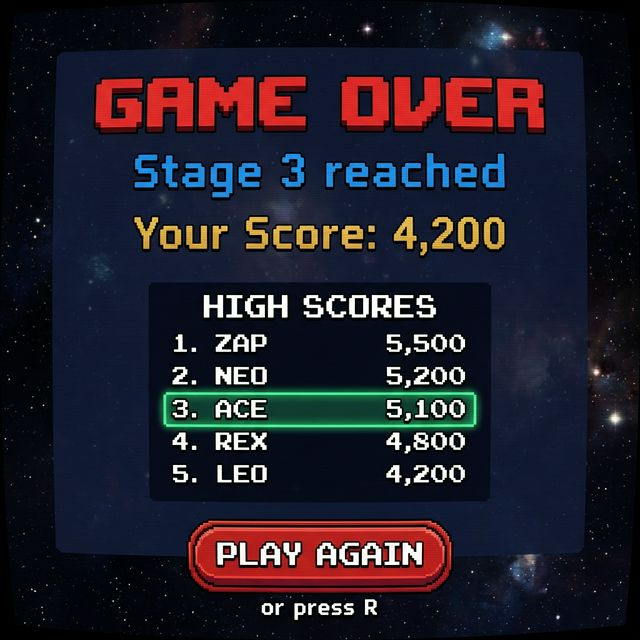
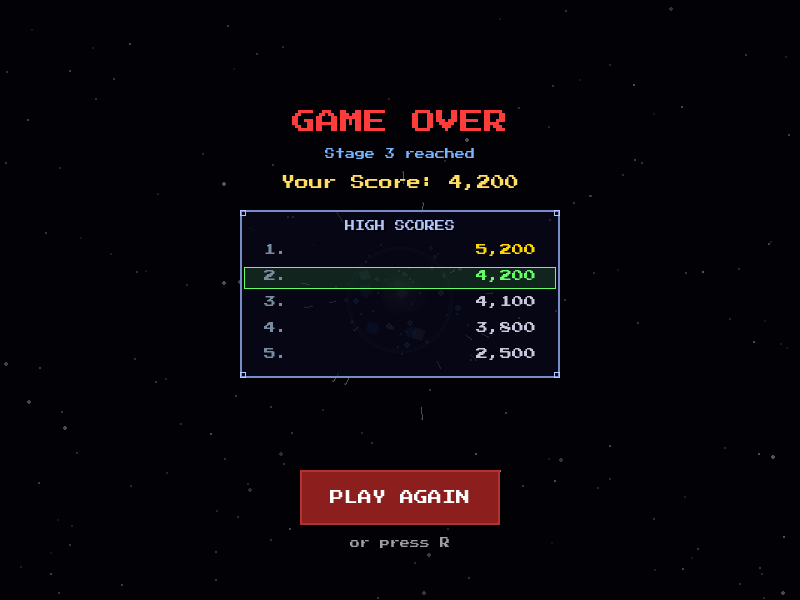
docs: replace AI-generated screenshots with actual game renders
Added capture_screenshots.py to programmatically render each screen
state and save as PNG. Screenshots now match the actual game.

diff --git a/capture_screenshots.py b/capture_screenshots.py
@@ -1,0 +1,114 @@
+#!/usr/bin/env python3
+"""Capture screenshots of each game screen for the README."""
+
+import os
+import sys
+import random
+
+# Render offscreen (no window needed)
+os.environ['SDL_VIDEODRIVER'] = 'dummy'
+
+import pygame
+pygame.init()
+pygame.mixer.init(frequency=44100, size=-16, channels=2, buffer=512)
+
+from config import SCREEN_WIDTH, SCREEN_HEIGHT, PLAYER_WIDTH, PLAYER_HEIGHT, ENEMY_WIDTH, ENEMY_HEIGHT, STAGE_CONFIGS
+from screens import Fonts, BUTTON_RECT, draw_title_screen, draw_hud, draw_game_over_screen
+from renderer import draw_player_ship, draw_enemy_ship, draw_laser, draw_enemy_laser
+from background import create_star_layers, update_and_draw_stars, spawn_galaxy, draw_galaxy
+from particles import ParticleSystem
+
+screen = pygame.display.set_mode((SCREEN_WIDTH, SCREEN_HEIGHT))
+fonts = Fonts()
+out_dir = os.path.join(os.path.dirname(os.path.abspath(__file__)), 'screenshots')
+os.makedirs(out_dir, exist_ok=True)
+
+# Seed for reproducibility
+random.seed(42)
+
+# Create starfield
+star_layers = create_star_layers()
+
+
+def draw_bg(surface):
+    surface.fill((4, 4, 18))
+    update_and_draw_stars(surface, star_layers)
+
+
+# --- 1. Title screen ---
+draw_bg(screen)
+galaxy = spawn_galaxy()
+galaxy['y'] = SCREEN_HEIGHT * 0.6
+draw_galaxy(screen, galaxy)
+draw_title_screen(screen, fonts, [5200, 4100, 3800, 2500, 1200],
+                  (SCREEN_WIDTH // 2, SCREEN_HEIGHT // 2 + 80), 60,
+                  PLAYER_WIDTH, PLAYER_HEIGHT)
+pygame.image.save(screen, os.path.join(out_dir, 'title_screen.png'))
+print('Saved title_screen.png')
+
+
+# --- 2. Gameplay ---
+random.seed(99)
+draw_bg(screen)
+
+# Draw a few enemies
+cfg = STAGE_CONFIGS[0]
+enemy_positions = [(120, 60), (350, 30), (550, 90), (680, 50), (250, 140)]
+for ex, ey in enemy_positions:
+    draw_enemy_ship(screen, ex, ey, ENEMY_WIDTH, ENEMY_HEIGHT,
+                    cfg['enemy_body'], cfg['enemy_wing'])
+
+# Draw enemy lasers
+for ebx, eby in [(145, 120), (575, 150), (370, 90)]:
+    eb_rect = pygame.Rect(ebx, eby, 5, 14)
+    draw_enemy_laser(screen, eb_rect)
+
+# Draw player
+draw_player_ship(screen, SCREEN_WIDTH // 2 - PLAYER_WIDTH // 2,
+                 SCREEN_HEIGHT - PLAYER_HEIGHT - 20,
+                 PLAYER_WIDTH, PLAYER_HEIGHT)
+
+# Draw player lasers
+for lx in [SCREEN_WIDTH // 2 - 3, SCREEN_WIDTH // 2 + 30]:
+    bullet = pygame.Rect(lx, 300, 6, 18)
+    draw_laser(screen, bullet)
+
+# Explosion
+particles = ParticleSystem()
+particles.spawn(400, 200, [(255, 200, 50), (255, 140, 30), (255, 80, 20)],
+                count=25, speed_range=(1.5, 5), lifetime=20)
+# Advance a few frames for the particles to spread
+for _ in range(5):
+    buf = pygame.Surface((SCREEN_WIDTH, SCREEN_HEIGHT), pygame.SRCALPHA)
+    particles.update_and_draw(buf)
+# Draw final state
+particles.update_and_draw(screen)
+
+# HUD
+draw_hud(screen, fonts, 2400, 1, 3)
+
+pygame.image.save(screen, os.path.join(out_dir, 'gameplay.png'))
+print('Saved gameplay.png')
+
+
+# --- 3. Game Over ---
+random.seed(77)
+draw_bg(screen)
+
+# Lingering particles
+particles2 = ParticleSystem()
+particles2.spawn(400, 300, [(100, 180, 255), (180, 220, 255)],
+                 count=35, speed_range=(2, 6), lifetime=30)
+for _ in range(10):
+    buf = pygame.Surface((SCREEN_WIDTH, SCREEN_HEIGHT), pygame.SRCALPHA)
+    particles2.update_and_draw(buf)
+particles2.update_and_draw(screen)
+
+draw_game_over_screen(screen, fonts, 4200, 3,
+                      [5200, 4200, 4100, 3800, 2500],
+                      (SCREEN_WIDTH // 2, SCREEN_HEIGHT // 2))
+pygame.image.save(screen, os.path.join(out_dir, 'game_over.png'))
+print('Saved game_over.png')
+
+pygame.quit()
+print('All screenshots saved to screenshots/')
